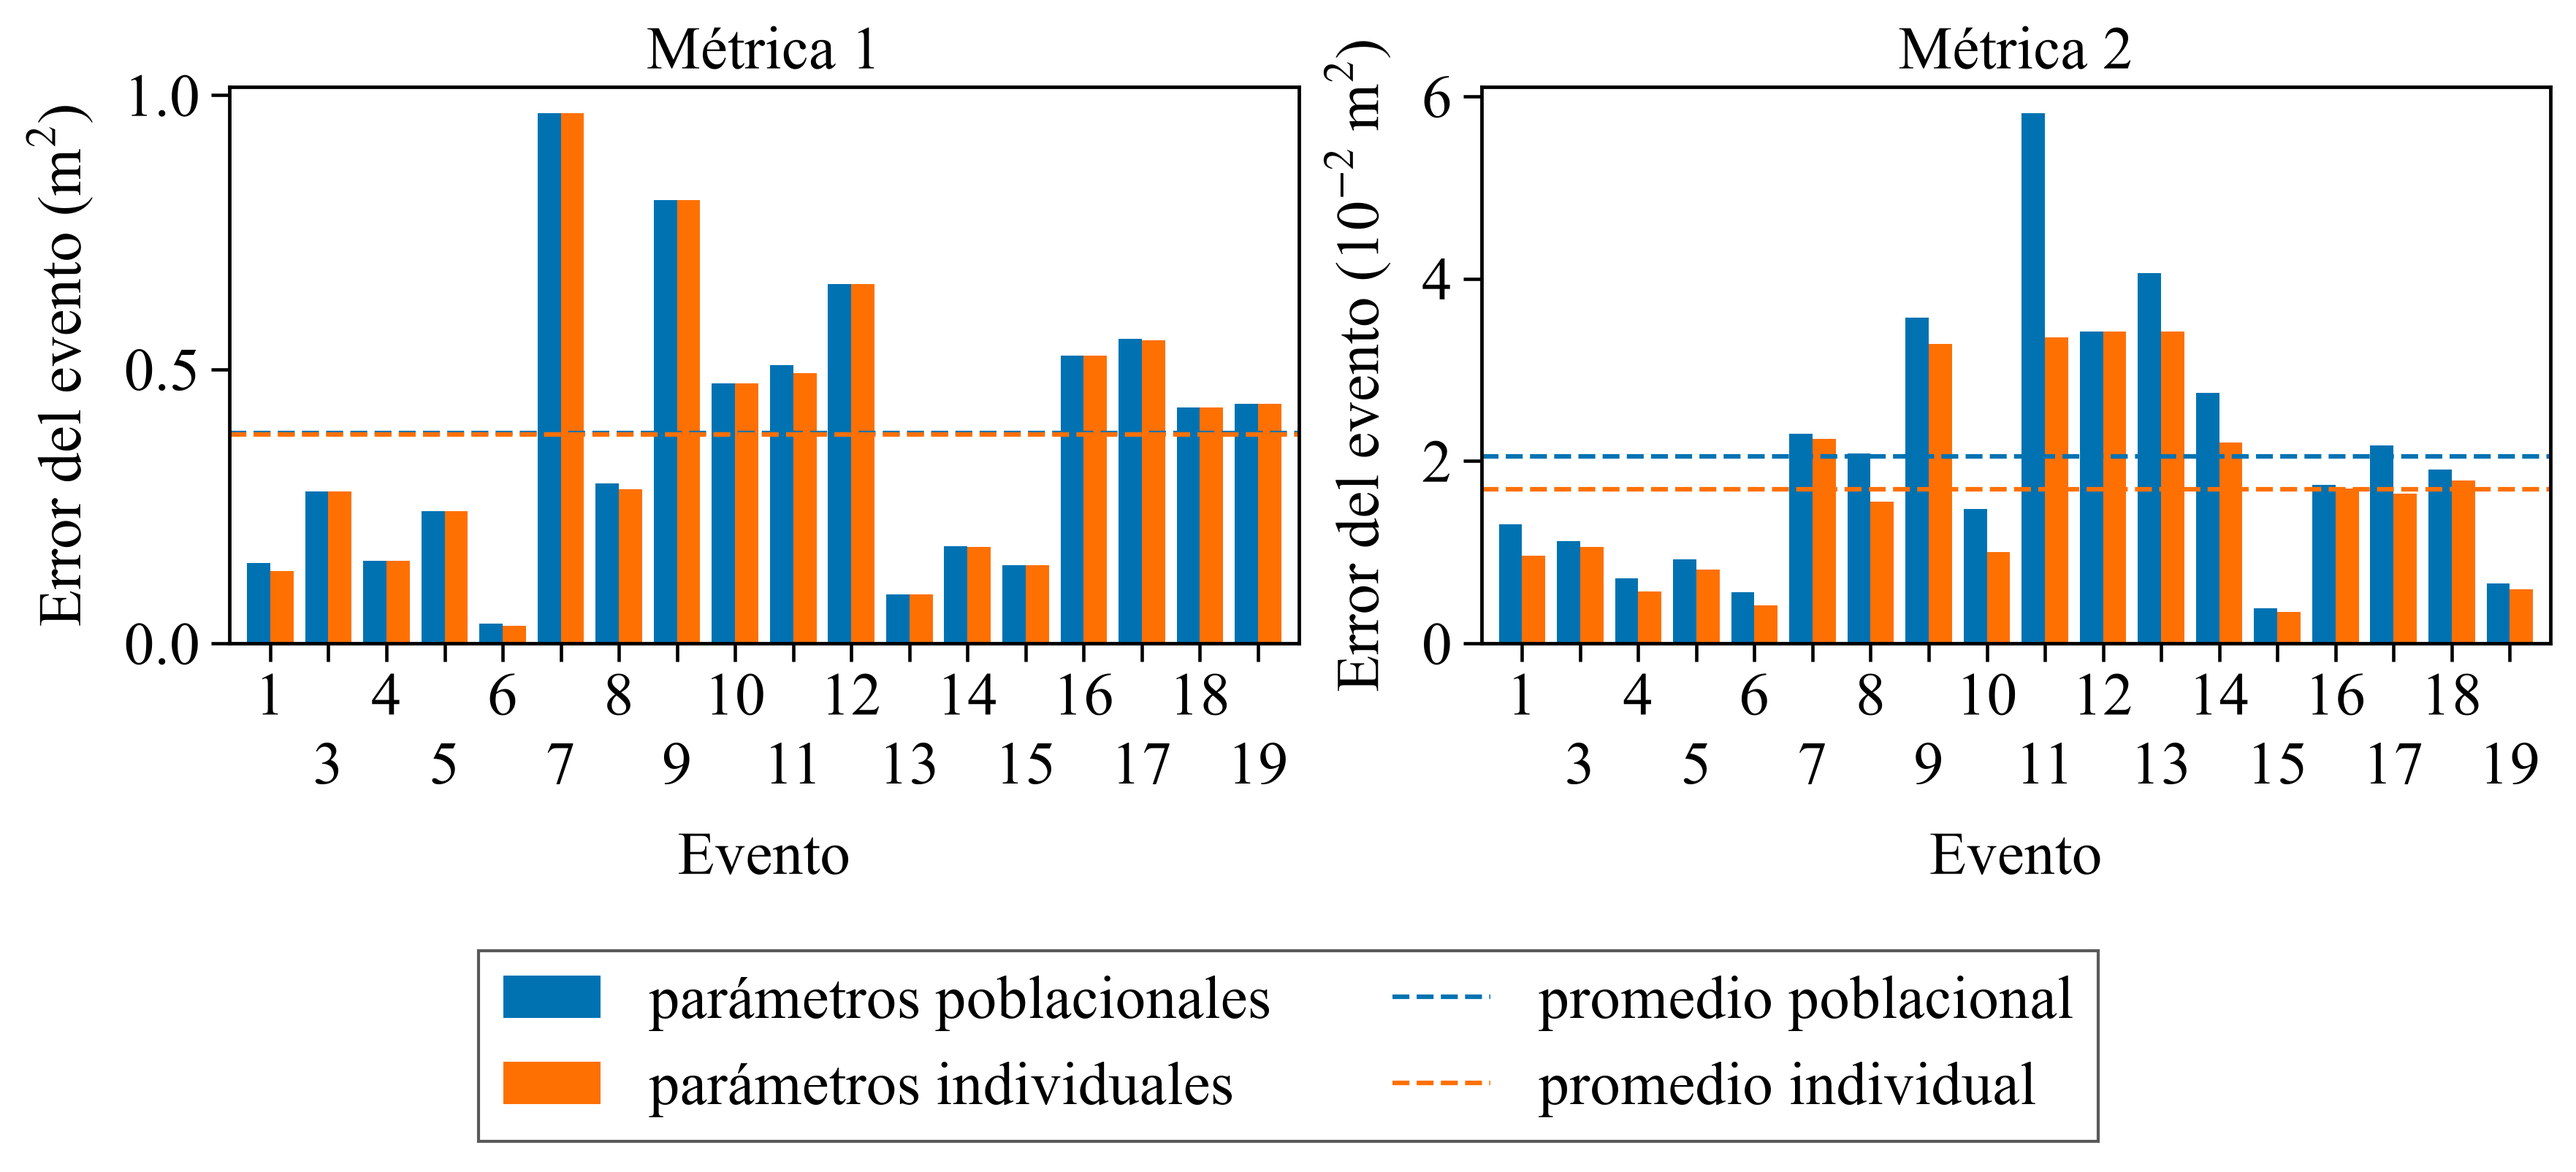
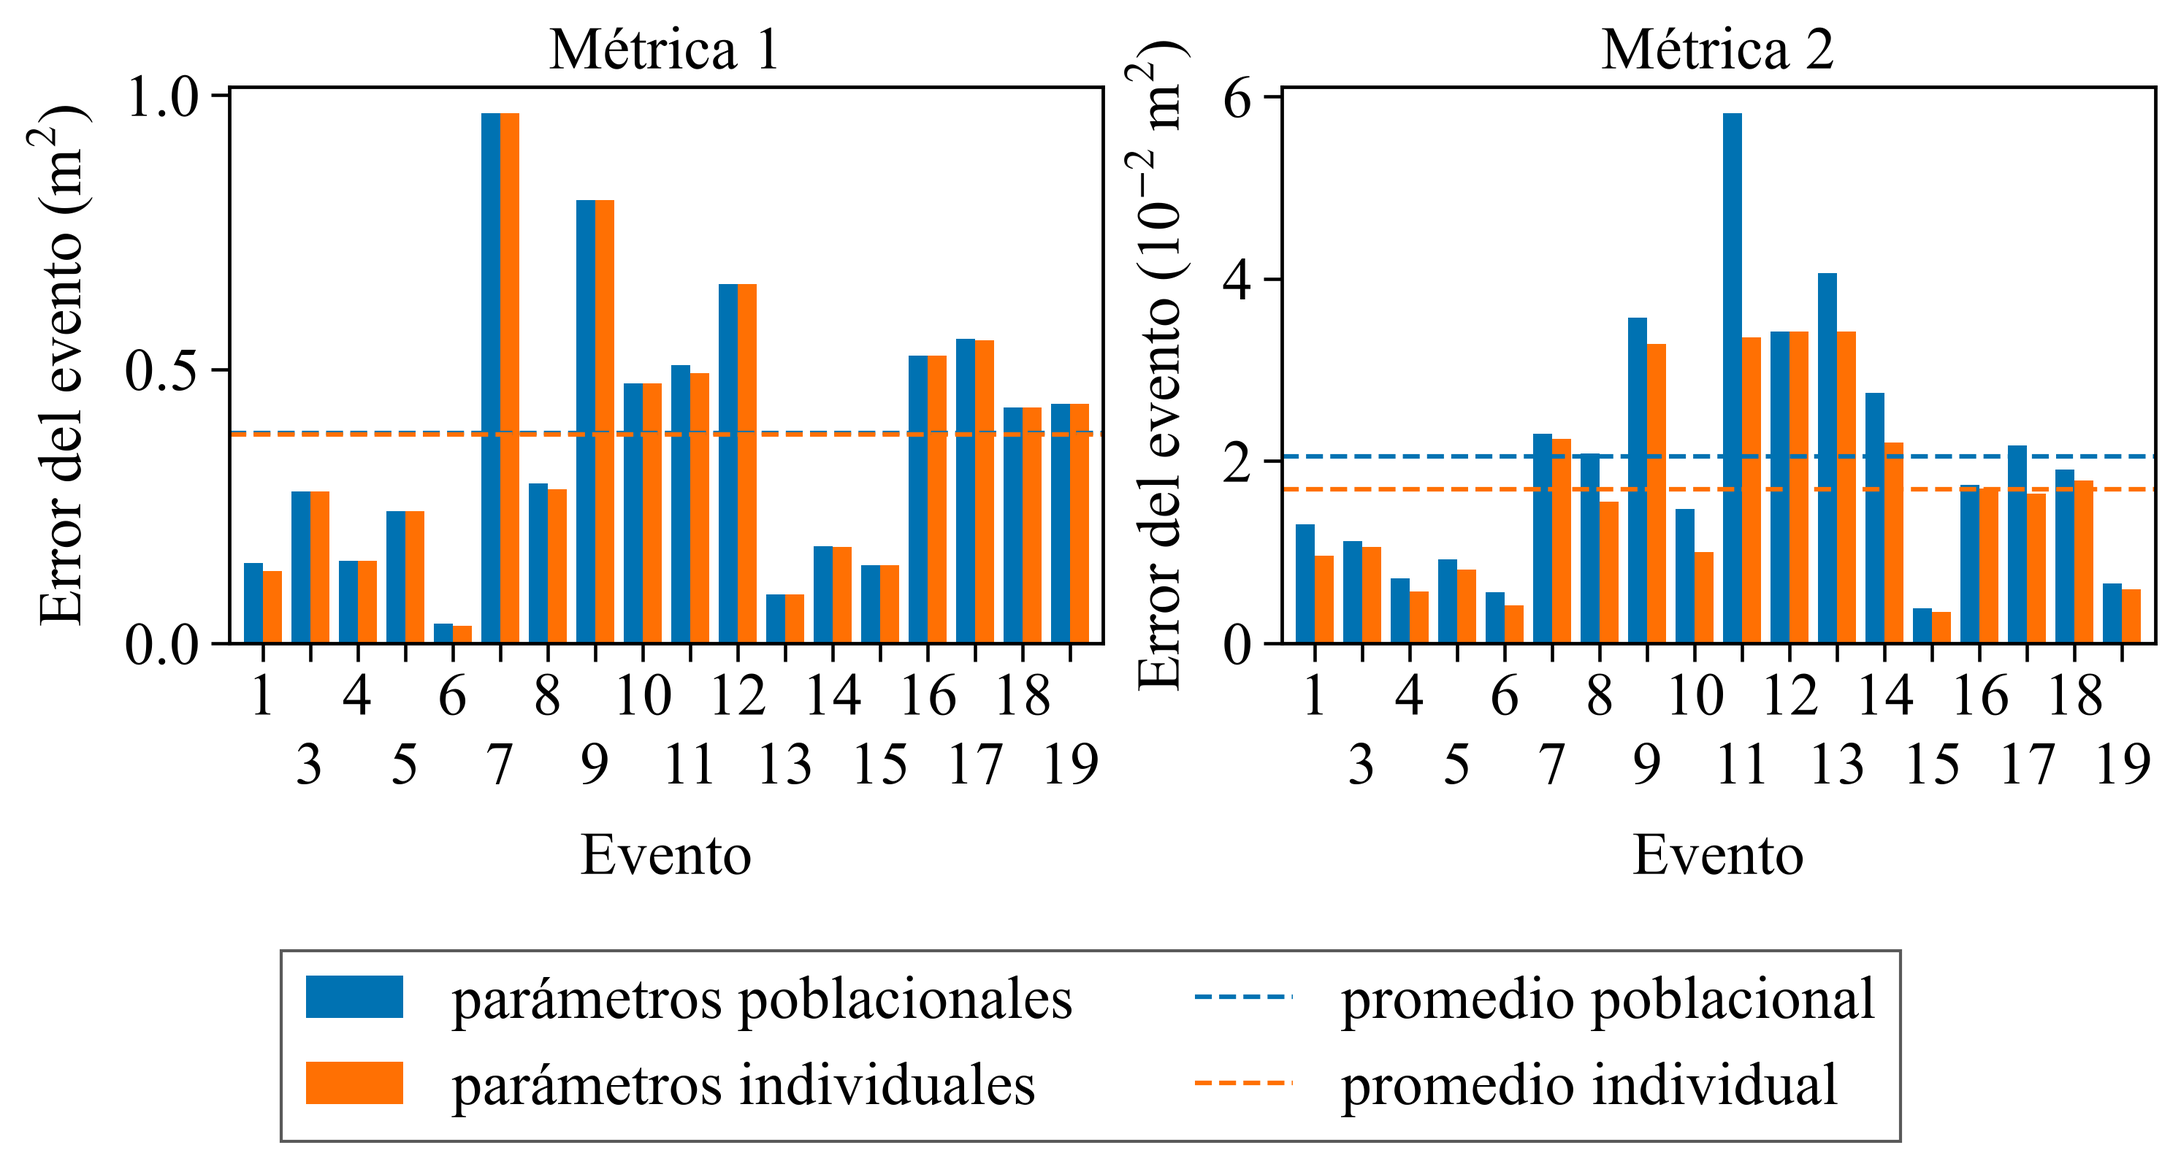
Added some parameters

diff --git a/scripts/plot_calibration.py b/scripts/plot_calibration.py
@@ -226,7 +226,8 @@ def plot_individual(metrics: list[int], indir: Path, outdir: Path) -> None:
     save_figure(fig, outdir / "optimos_individuales.png", extra=(legend,))
 
     # per-event errors: each metric keeps its own scale and unit, so each panel has its own y label
-    fig, axes = plt.subplots(1, len(data), figsize=(11.6, 5.4), layout="constrained")
+    # sized for a 0.78 column: the population parameters go in a box beside it on the slide (guía 1.7)
+    fig, axes = plt.subplots(1, len(data), figsize=(9.8, 5.4), layout="constrained")
     fig.get_layout_engine().set(h_pad=0.15)
     axes = np.atleast_1d(axes)
     for ax, d in zip(axes, data):
@@ -259,6 +260,9 @@ def draw_crossval(ax, metric: int, indir: Path) -> int:
         ax.errorbar(x, mean / scale, yerr=sd / scale, fmt="o", markersize=13, color=color, ecolor=color, capsize=9,
                     capthick=2.2, elinewidth=2.2, zorder=3)
     ax.axhline(E_pop / scale, color="black", linestyle=":", linewidth=1.8, label="calibración poblacional", zorder=1)
+    # legend entry only (nothing drawn): says what the point and its error bar are
+    ax.errorbar([np.nan], [np.nan], yerr=[np.nan], fmt="o", markersize=13, color="0.45", capsize=9, capthick=2.2,
+                elinewidth=2.2, label="promedio ± desvío entre particiones")
     ax.set_xticks([0, 1])
     ax.set_xticklabels(["Entrenamiento\n(13 eventos)", "Validación\n(5 eventos)"])
     ax.set_xlim(-0.6, 1.6)
@@ -279,7 +283,8 @@ def plot_crossval(metrics: list[int], indir: Path, outdir: Path) -> None:
         style_axes(ax, "Conjunto de eventos", f"Error medio ({unit})")  # words, not symbols (guía 1.8)
         ax.set_title(f"Métrica {metric}")
     handles, labels = axes[0].get_legend_handles_labels()
-    legend = fig.legend(handles, labels, loc="outside lower center", ncol=len(labels))
+    # matplotlib lists the line before the error bar; the point and its bar go first
+    legend = fig.legend(handles[::-1], labels[::-1], loc="outside lower center", ncol=len(labels))
     save_figure(fig, outdir / "validacion_cruzada.png", extra=(legend,))
 
 

diff --git a/docs/presentation/secciones/resultados.tex b/docs/presentation/secciones/resultados.tex
@@ -171,8 +171,18 @@
 \end{frame}
 
 \begin{frame}{Error de cada evento}
-  \centering
-  \includegraphics[width=\linewidth,height=0.86\textheight,keepaspectratio]{error_por_evento.png}
+  \begin{cols}
+    \begin{column}{0.78\textwidth}
+      \centering
+      \includegraphics[width=\linewidth,height=0.86\textheight,keepaspectratio]{error_por_evento.png}
+    \end{column}
+    \begin{column}{0.20\textwidth}
+      \begin{parametros}[Parámetros poblacionales ($\dlat$, $\dact$)]
+        \item Métrica 1: $(0.20,\ 4)\uni{m}$
+        \item Métrica 2: $(0.25,\ 5)\uni{m}$
+      \end{parametros}
+    \end{column}
+  \end{cols}
 \end{frame}
 
 \begin{frame}{Calibración poblacional e individual}
@@ -202,13 +212,14 @@
 
 \begin{frame}{Validación cruzada}
   \begin{columns}[c]
-    \begin{column}{0.76\textwidth}
+    \begin{column}{0.73\textwidth}
       \figura{validacion_cruzada.png}
     \end{column}
-    \begin{column}{0.22\textwidth}
+    \begin{column}{0.25\textwidth}
       \begin{parametros}
         \item $20$ particiones al azar
-        \item Calibración poblacional: $18$ eventos
+        \item Óptimo recalibrado con el entrenamiento de cada una
+        \item Poblacional: $18$ eventos
       \end{parametros}
       \vspace{4pt}
       \begin{resultado}
